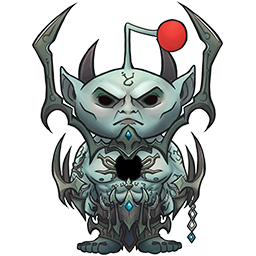
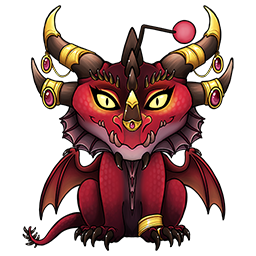
New hero image

diff --git a/sass/header.scss b/sass/header.scss
@@ -1,10 +1,8 @@
-// header background
-#header {
 
-    height: 325px;
-    background: url("../images/hero-df.jpg") center no-repeat #484787;
-    background-size: 2810px 325px;
-    //margin-bottom: 20px;
+#header {
+    height: 250px;
+    background: url("../images/hero-df-new.webp") center no-repeat #484787;
+    background-size: 2810px 250px;
     box-shadow: 0px 10px 14px 10px rgba(0, 0, 0, 0.2);
 
     .redditname {
@@ -81,8 +79,8 @@
 
 #header-bottom-left .tabmenu {
     position: relative;
-    top: 246px;
-    left: 235px;
+    top: 172px;
+    left: 186px;
     z-index: 9999;
 
     li.selected a {
@@ -118,7 +116,7 @@
         content: '';
         display: block;
         position: absolute;
-        top: 283px;
+        top: 208px;
         width: 100%;
         height: 40px;
         @include wow-modern-box;
@@ -131,8 +129,8 @@
 // reddit/ snoo logo
 @if $no_snoos != true {
     #header-img-a {
-        margin-top: 34px;
-        margin-left: -13px;
+        margin-top: 3px;
+        margin-left: 15px;
         height: 128px;
         width: 100px;
         display: inline-block;
@@ -183,7 +181,7 @@
 
     // move the menu closer to the back link
     #header-bottom-left .tabmenu {
-        left: 145px;
+        left: 195px;
     }
 }
 

diff --git a/gulpfile.js b/gulpfile.js
@@ -70,6 +70,7 @@ gulp.task('styles', [
         .pipe(replace('../images/hero-shadowlands-v3.jpg', '%%hero-shadowlands-v3%%'))
         .pipe(replace('../images/hero-aph.jpg', '%%hero-aph%%'))
         .pipe(replace('../images/hero-df.jpg', '%%hero-df%%'))
+        .pipe(replace('../images/hero-df-new.webp', '%%hero-df-new%%'))
         .pipe(replace('../images/partyparrot.png', '%%partyparrot%%'))
 
         .pipe(replace('../images/c-1.jpg', '%%c-1%%'))
